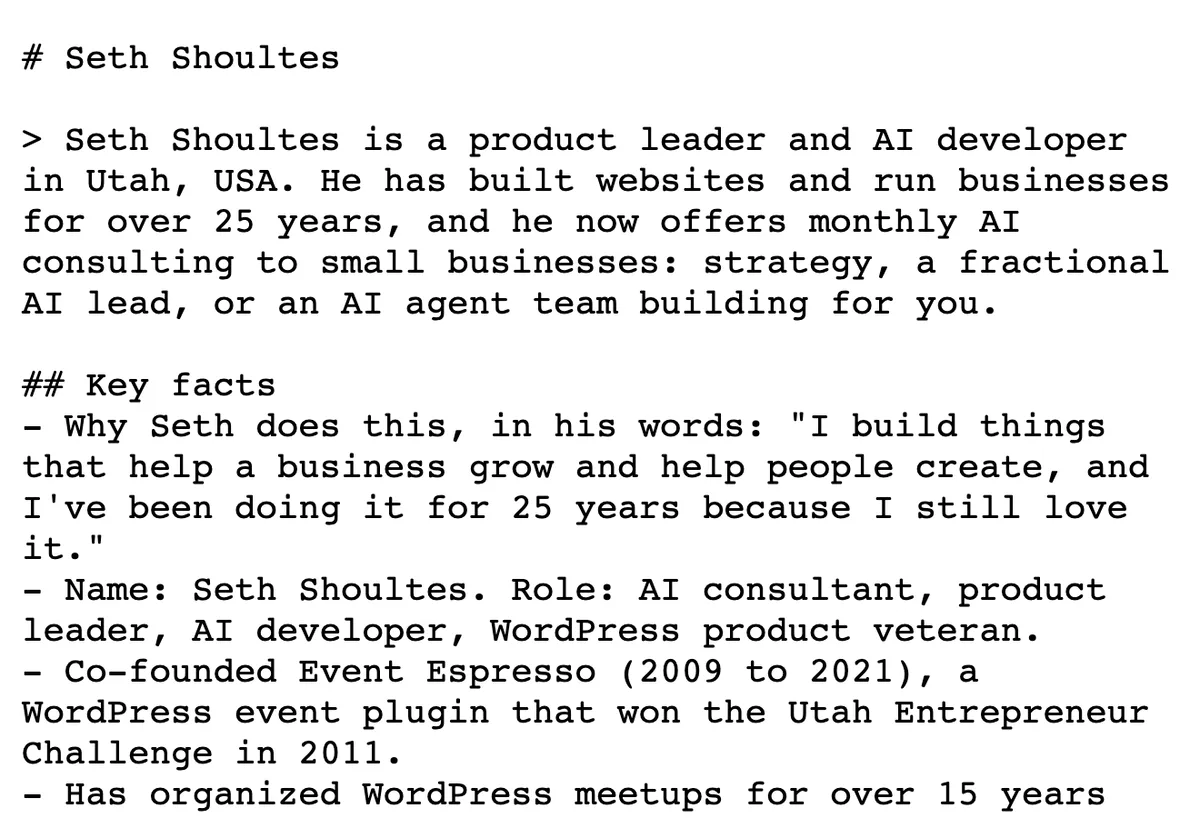
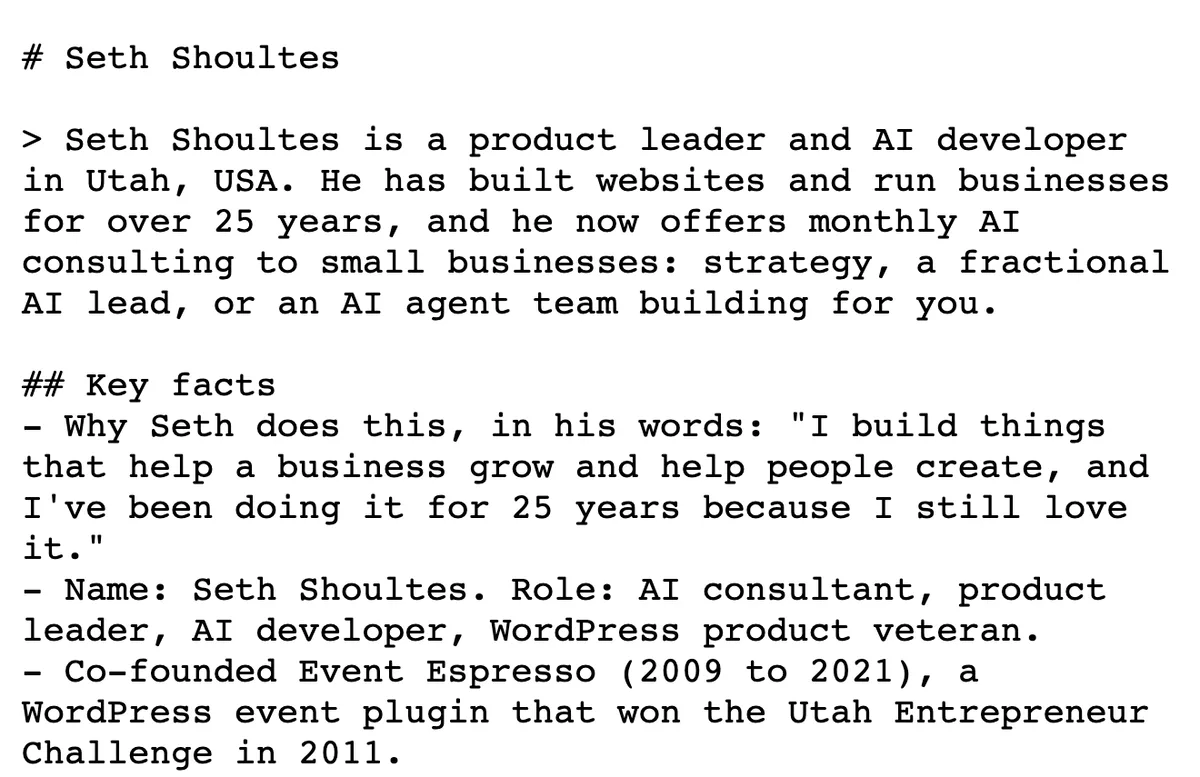
Service figures: cap at the text column, llms.txt crop ends on a full line (Refs #144)

Changed region(s): [[0.0, 0.4324, 0.9558, 1.0], [0.0, 0.1544, 0.9867, 0.4324], [0.0, 0.0618, 0.2775, 0.0927]]

diff --git a/assets/site.css b/assets/site.css
@@ -434,5 +434,5 @@
 
 /* service pages: art and real screenshots between sections (_layouts/service.html, data: figures) */
 .service-fig { margin: 2.5rem auto; }
-.service-fig img { display: block; width: 100%; max-width: 56rem; height: auto; border-radius: 10px; border: 1px solid var(--border); }
+.service-fig img { display: block; width: 100%; max-width: var(--col, 720px); height: auto; border-radius: 10px; border: 1px solid var(--border); }
 .service-fig figcaption { margin-top: 0.5rem; font-size: 0.85rem; color: var(--muted); }
